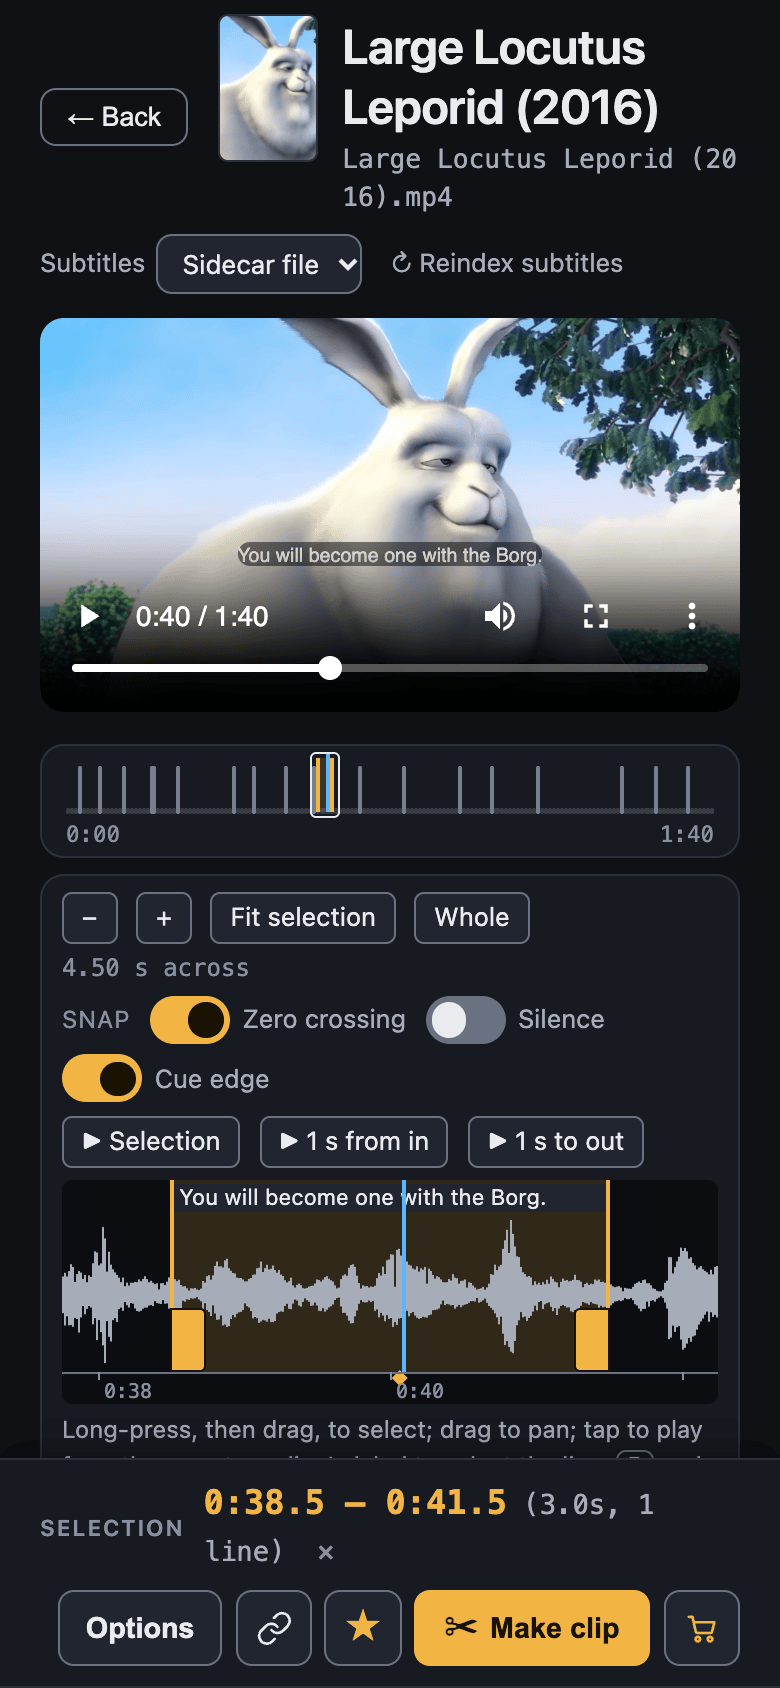
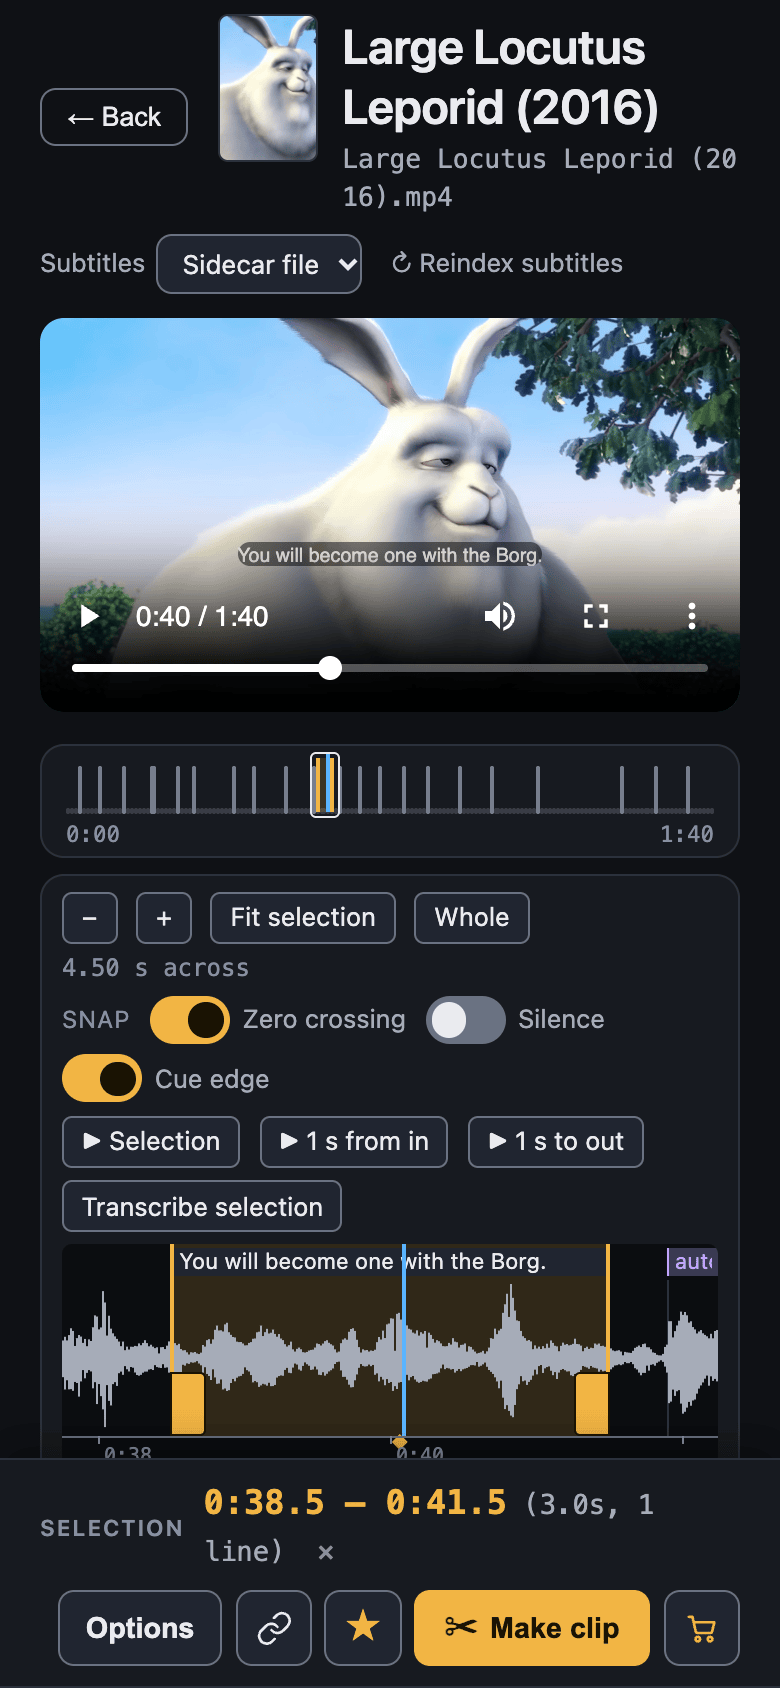
docs: screenshots for 0.4.0 with machine transcription on (M21, D-053)
The fixture turns transcription on the way an install does, by having whisper:
seed_transcript.py writes a stand-in whisper-cli, an empty model file and four
machine lines in the movie's gaps (Big Buck Bunny has nothing to hear). shoot.py
adds transcript.png and transcript-open.png (the side panel at 2x, the slim bar
closed and open), and workspace-dark, workspace-light, phone and library are
retaken: they now show the bar, the violet lines, Transcribe selection and Fill
gaps in every file. README shows the pair; TRANSCRIPTION.md the opened one.

Also: Export .srt (a link) centres its text in its 24 px target like the buttons
beside it (it sat 2.4 px high).

diff --git a/web/frontend/styles.css b/web/frontend/styles.css
@@ -799,6 +799,8 @@ footer { padding: 2rem 1.25rem; font-size: 0.8rem; }
 .stt-msg { margin: 0.25rem 0 0; color: var(--text); overflow-wrap: anywhere; }
 .stt-actions { display: flex; flex-wrap: wrap; gap: 0.35rem 0.9rem; align-items: center; margin-top: 0.35rem; }
 .stt-bar .reindex-link { color: var(--text); }
+/* Export .srt is a link: centre its text in the 24 px target as the buttons beside it do. */
+.stt-actions .reindex-link { display: inline-flex; align-items: center; }
 .stt-bar .reindex-link:hover { color: var(--accent-text); }
 .stt-model { display: inline-flex; gap: 0.35rem; align-items: center; color: var(--dim); font-size: 0.8rem; }
 .stt-model select { font-size: 0.8rem; padding: 0.1rem 0.3rem; }

diff --git a/docs/screenshots/fixture/seed_transcript.py b/docs/screenshots/fixture/seed_transcript.py
@@ -1,0 +1,46 @@
+"""Machine transcription for the screenshots: a stand-in whisper.cpp and a few machine lines.
+
+    FIXTURE=<make-fixture.sh OUT_DIR> python3 seed_transcript.py
+
+Big Buck Bunny has no dialogue for whisper to hear, so the lines are written straight into
+the server's transcript store ($FIXTURE/state/transcripts), as a gaps run of the movie
+would have kept them: in the stretches between its subtitle lines. It also writes a
+whisper-cli that does nothing and an empty model file (into $FIXTURE/whisper), so the
+server, started with QC_WHISPER_BIN and QC_WHISPER_MODEL pointing at them, has
+transcription on (D-053) and shows the transcript bar. Nothing here can transcribe.
+"""
+import os
+import sys
+from pathlib import Path
+
+ROOT = Path(__file__).resolve().parents[3]
+sys.path.insert(0, str(ROOT / "src"))
+
+from quipclipper import transcribe as tr  # noqa: E402
+from quipclipper.models import Cue  # noqa: E402
+
+FIXTURE = Path(os.environ["FIXTURE"])
+MOVIE = FIXTURE / "Movies/Large Locutus Leporid (2016)/Large Locutus Leporid (2016).mp4"
+
+# (start, end, text) in the movie's gaps between subtitle lines; each gap is a range done.
+LINES = {
+    (19.0, 26.0): [(19.8, 24.6, "♪ Hop along, little leporid, the hive is calling ♪")],
+    (41.5, 45.0): [(41.9, 44.6, "♪ Carrots are irrelevant ♪")],
+    (48.0, 52.0): [(48.4, 51.6, "Fine. We'll hop to the cube.")],
+    (55.5, 61.0): [(56.0, 60.4, "♪ One with the burrow, one with the Borg ♪")],
+}
+
+whisper = FIXTURE / "whisper"
+whisper.mkdir(exist_ok=True)
+exe = whisper / "whisper-cli"
+exe.write_text("#!/bin/sh\necho 'screenshot fixture: no whisper here' >&2\nexit 1\n")
+exe.chmod(0o755)
+(whisper / "ggml-small.en.bin").write_bytes(b"")
+
+store = tr.TranscriptStore(FIXTURE / "state" / "transcripts")
+store.clear(MOVIE)
+for done, lines in LINES.items():
+    store.add(MOVIE, done, [Cue(0, s, e, t, source=tr.MACHINE) for s, e, t in lines],
+              model="small.en")
+print(f"seeded {sum(map(len, LINES.values()))} machine lines; start the server with")
+print(f"  QC_WHISPER_BIN={exe} QC_WHISPER_MODEL={whisper / 'ggml-small.en.bin'}")

diff --git a/docs/screenshots/fixture/shoot.py b/docs/screenshots/fixture/shoot.py
@@ -143,6 +143,24 @@ async def main():
         await shot(page, "send-to-leadstinger", clip={"x": box["x"] - 16, "y": top, "width": box["width"] + 32, "height": box["y"] + box["height"] + 16 - top})
         await hi.close()
 
+        # Machine transcription (on where whisper is installed, D-053; the fixture has a stand-in
+        # and seed_transcript.py's lines): the side panel with the slim transcript bar closed,
+        # then open, at 2x, cropped to the bar and the script lines below it.
+        hi = await b.new_context(viewport={"width": 1600, "height": 1000}, device_scale_factor=2, color_scheme="dark")
+        page = await home(hi)
+        await open_movie_from_now_playing(page)
+        await page.wait_for_selector("#stt-bar:not([hidden])")
+        await page.wait_for_selector("#script-list .script-machine")
+        await page.evaluate("document.activeElement.blur()")
+        side = await page.locator(".ws-side").bounding_box()
+        crop = {"x": side["x"], "y": side["y"], "width": side["width"], "height": min(side["height"], 600)}
+        await shot(page, "transcript", clip=crop)
+        await page.click("#stt-toggle")
+        await page.mouse.move(0, 0)  # no hover tooltip over the opened bar
+        await settle(page, 700)
+        await shot(page, "transcript-open", clip=crop)
+        await hi.close()
+
         light = await b.new_context(viewport={"width": 1600, "height": 1000}, color_scheme="light")
         page = await home(light)
         await open_movie_from_now_playing(page)

diff --git a/web/backend/tests/test_frontend_transcribe.py b/web/backend/tests/test_frontend_transcribe.py
@@ -475,3 +475,11 @@ def test_the_orphan_line_is_true_for_every_reason_and_said_once():
     line = re.search(r'<p id="stt-orphans"[^>]*>', html).group(0)
     assert "role=" not in line and "aria-live" not in line
     assert click.count("announce(") == 1
+
+
+def test_the_export_link_lines_up_with_the_buttons_beside_it():
+    # Export .srt is an <a>: as a 24 px block its text sat at the top while the buttons
+    # centre theirs (2.4 px higher, measured).
+    css = (FRONTEND / "styles.css").read_text()
+    assert re.search(r"\.stt-actions \.reindex-link \{[^}]*display: inline-flex;[^}]*"
+                     r"align-items: center;", css)

diff --git a/docs/screenshots/fixture/README.md b/docs/screenshots/fixture/README.md
@@ -30,7 +30,16 @@ are a few Borg lines for dialogue search to find.
    FIXTURE=~/qc-fixture python3 docs/screenshots/fixture/fake_jellyfin.py
    ```
 
-3. Start the web app on port 8017 against the fixture:
+3. Seed the machine transcript: Big Buck Bunny has nothing for whisper to hear, so
+   [`seed_transcript.py`](seed_transcript.py) writes four machine lines into the movie's
+   gaps in the server's transcript store, plus a stand-in `whisper-cli` that does nothing
+   and an empty model file, so the server turns transcription on (D-053) and shows it:
+
+   ```bash
+   FIXTURE=~/qc-fixture python3 docs/screenshots/fixture/seed_transcript.py
+   ```
+
+4. Start the web app on port 8017 against the fixture:
 
    ```bash
    QC_MEDIA_ROOTS=~/qc-fixture/Movies:~/qc-fixture/Shows QC_PORT=8017 \
@@ -38,10 +47,12 @@ are a few Borg lines for dialogue search to find.
    QC_PUBLIC_URL=https://quipclipper.example.net \
    QC_JELLYFIN_URL=http://127.0.0.1:8097 QC_JELLYFIN_API_KEY=fixture \
    QC_JELLYFIN_PATH_MAP=/data/movies=$HOME/qc-fixture/Movies:/data/shows=$HOME/qc-fixture/Shows \
+   QC_WHISPER_BIN=$HOME/qc-fixture/whisper/whisper-cli \
+   QC_WHISPER_MODEL=$HOME/qc-fixture/whisper/ggml-small.en.bin \
    python -m quipclipper_web
    ```
 
-4. Shoot (needs `pip install playwright` and Google Chrome), then compress:
+5. Shoot (needs `pip install playwright` and Google Chrome), then compress:
 
    ```bash
    FIXTURE=~/qc-fixture OUT=/tmp/shots python docs/screenshots/fixture/shoot.py
@@ -54,7 +65,9 @@ are a few Borg lines for dialogue search to find.
    **changed** chip and banner) and puts it back after. The pairing shots (`pairing`,
    `connected-apps`) ask for access as "LeadStinger on studio-macbook" through the API, with
    "LeadStinger on booth-mini" already let in, and deny the request afterwards; the address
-   on the banner is the fixture server's own `127.0.0.1`. Transcription stays off (no
-   `QC_TRANSCRIBE`), so none of it shows.
+   on the banner is the fixture server's own `127.0.0.1`. Transcription is on (the stand-in
+   whisper and its model), so the workspace shows the slim transcript bar and the movie's
+   violet machine lines; the `transcript` and `transcript-open` shots crop the side panel at
+   2x with the bar closed, then open.
    The workspace shots wait for the waveform's peaks; the phone shot scrolls the waveform
    strip up to just above the pinned selection. Look at every image before committing it.

diff --git a/README.md b/README.md
@@ -84,6 +84,13 @@ mark the selected line's in and out points.
 
 ![The workspace in the light theme, with the waveform strip and its handles under the player](docs/screenshots/workspace-light.png)
 
+**Machine transcription**, where whisper.cpp is installed: lines whisper heard in the
+stretches the subtitles skip show in violet with an **auto** chip, between the real lines.
+The slim **Machine transcript** row above the script opens to Fill gaps, Copy to library,
+Export .srt and Delete transcript.
+
+<p align="center"><img src="docs/screenshots/transcript.png" width="440" alt="The script with violet auto lines between the subtitle lines, under the slim Machine transcript row, closed"> <img src="docs/screenshots/transcript-open.png" width="440" alt="The same script with the Machine transcript row opened: 0:20 transcribed with small.en, 4 lines, and Fill gaps, Copy to library, Export .srt and Delete transcript"></p>
+
 **Now playing** from Jellyfin on the library's home: open what a client is playing, at its
 playhead. Below it, the home's Dialogue index card indexes the whole library.
 

diff --git a/docs/TRANSCRIPTION.md b/docs/TRANSCRIPTION.md
@@ -116,6 +116,8 @@ read-only root it says it can't.
 
 ## In the web app
 
+<p align="center"><img src="screenshots/transcript-open.png" width="440" alt="The script with violet auto lines between the subtitle lines, under the Machine transcript row opened: 0:20 transcribed with small.en, 4 lines, and Fill gaps, Copy to library, Export .srt and Delete transcript"></p>
+
 - **The workspace** has a slim **Machine transcript** row above the script, about a line
   tall: the state in a few words ("14 lines", "none yet") and a running job's progress with
   **Cancel**. A click or Enter opens the rest below it, Esc closes it, and each browser

diff --git a/CHANGELOG.md b/CHANGELOG.md
@@ -157,7 +157,8 @@ subtitles everywhere. See [docs/TRANSCRIPTION.md](docs/TRANSCRIPTION.md).
   cut off, yet still took the keyboard focus), a long message can be read whole in its
   hover text and in the opened bar, the toggle no longer overlaps the summary at phone
   width, and its hover keeps AA contrast in the dark theme. "auto" chips on buttons are
-  part of their spoken names, and the toggle's hover text says a click opens the bar.
+  part of their spoken names, the toggle's hover text says a click opens the bar, and
+  **Export .srt** lines up with the buttons beside it.
 
 ### Fixed
 
